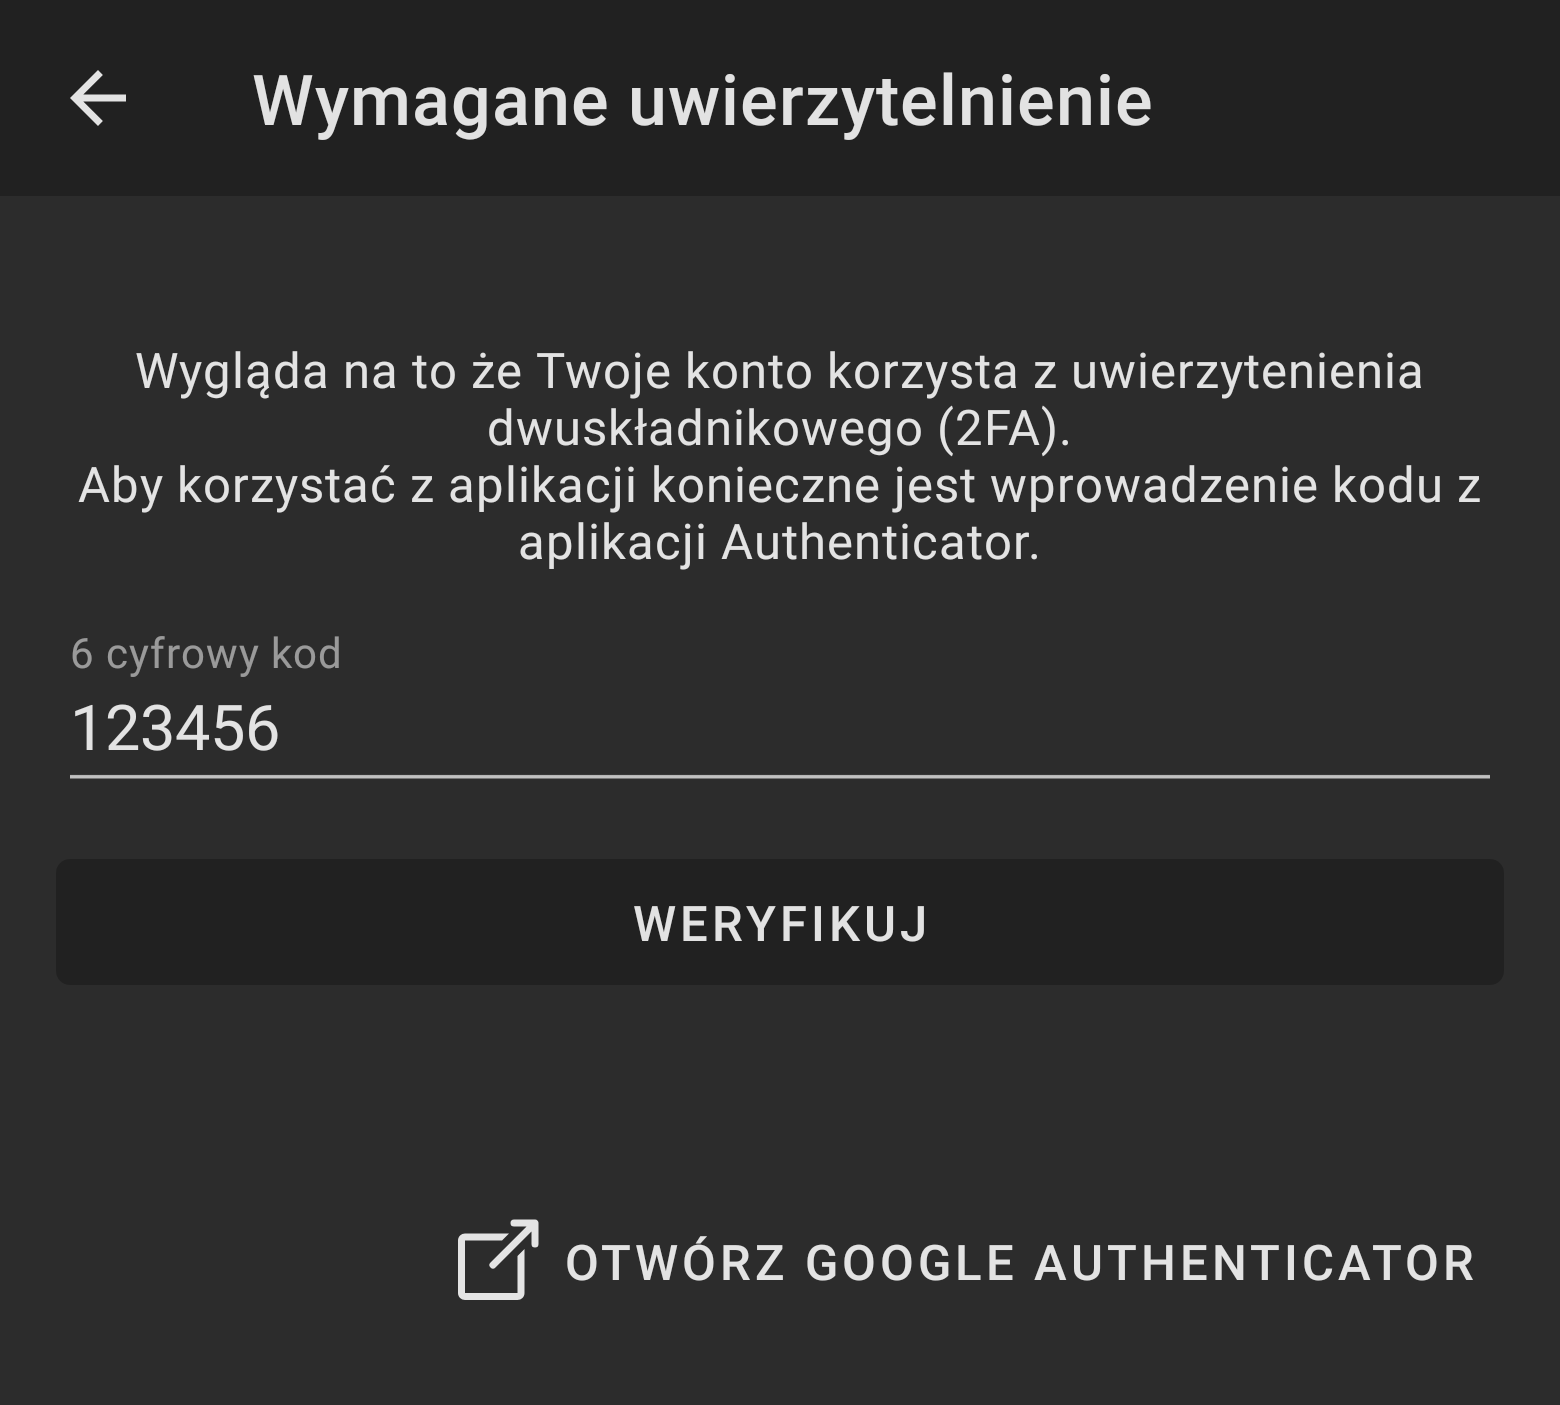
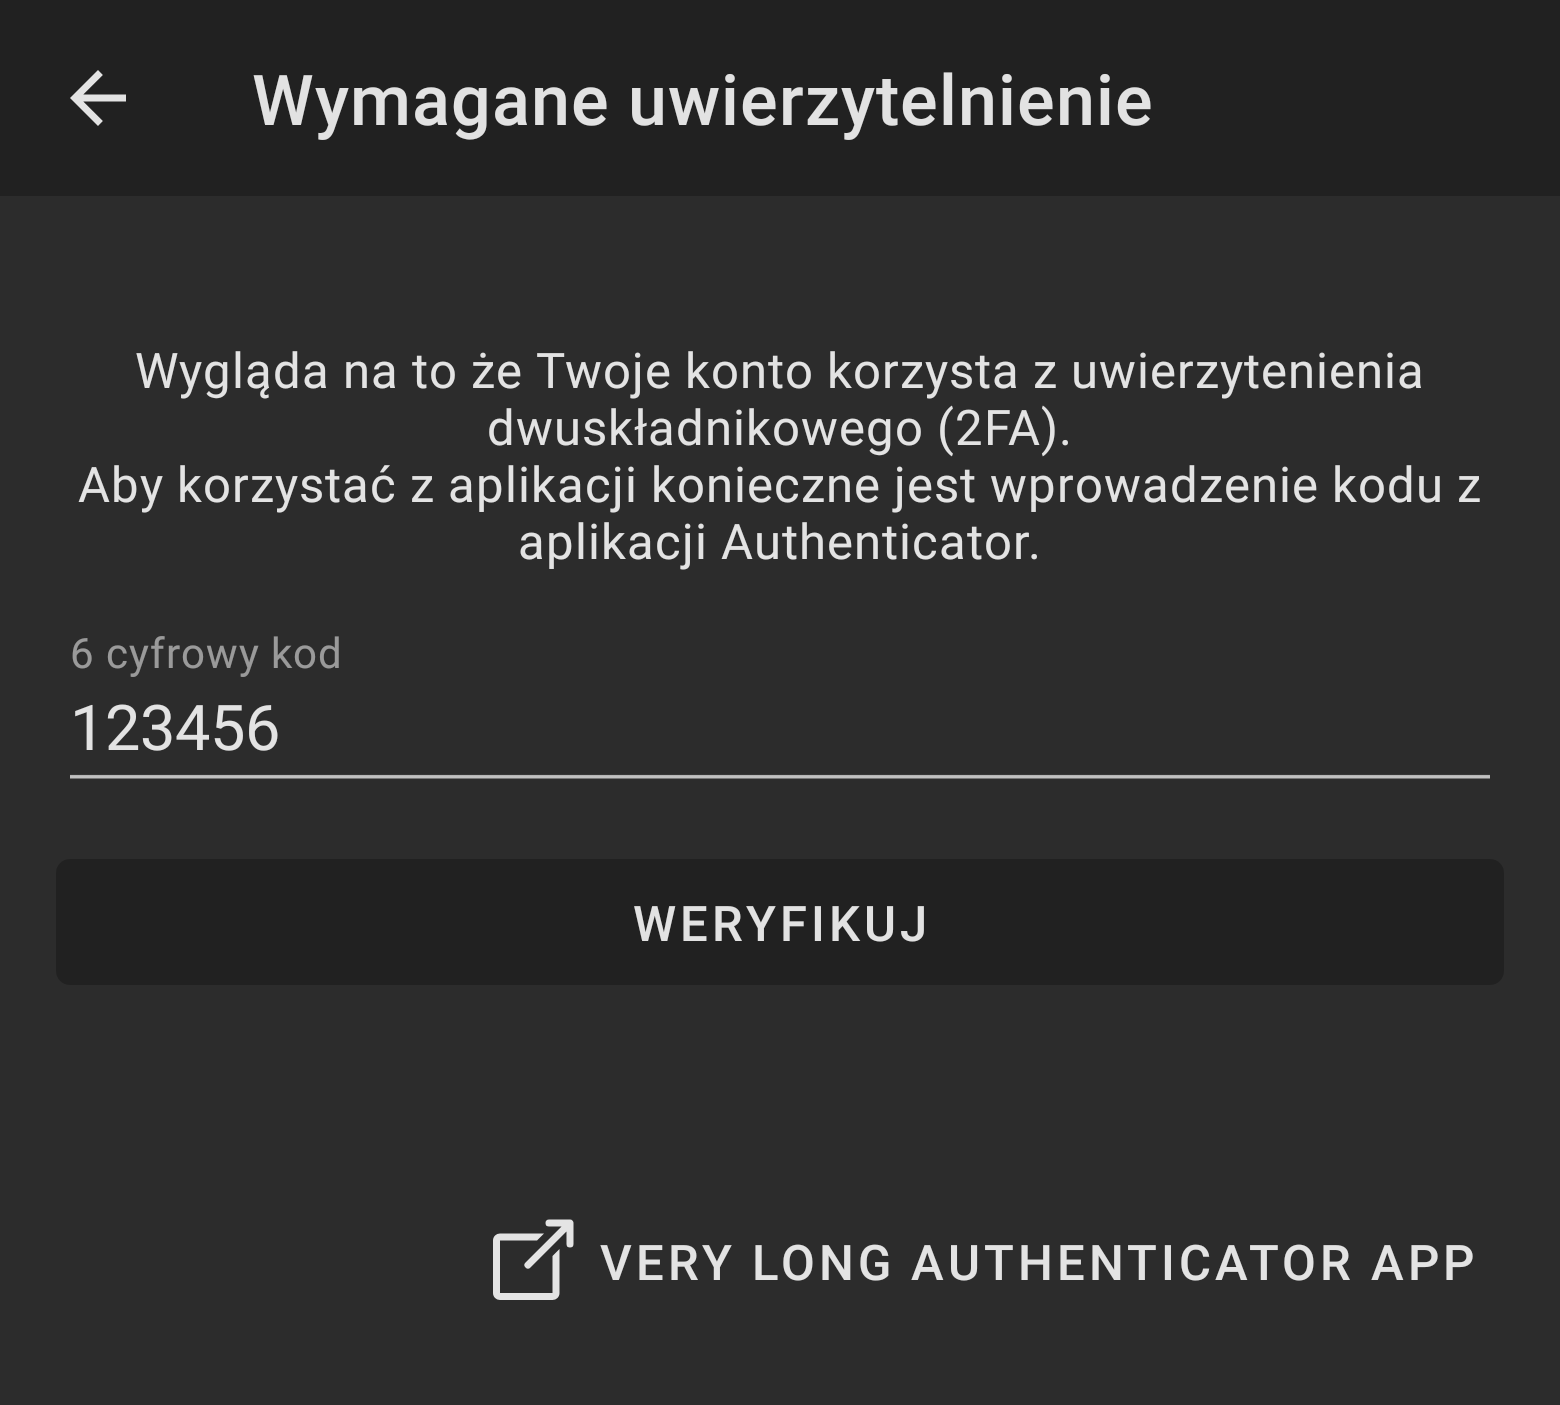
More authenticator apps

Changed region(s): [[0.2769, 0.8569, 0.9231, 0.9488]]

diff --git a/domain/src/main/kotlin/io/github/wykopmobilny/domain/strings/Strings.kt b/domain/src/main/kotlin/io/github/wykopmobilny/domain/strings/Strings.kt
@@ -68,10 +68,14 @@ object Strings {
 
         fun openAuthenticator(externalApp: AuthenticatorApp) =
             when (externalApp) {
-                AuthenticatorApp.Google -> "Otwórz Authenticator"
-                AuthenticatorApp.Microsoft -> "Otwórz Authenticator"
-                AuthenticatorApp.Authy -> "Otwórz Authy"
-                AuthenticatorApp.AuthenticatorPro -> "Otwórz Authenticator Pro"
+                AuthenticatorApp.Google -> "Google Authenticator"
+                AuthenticatorApp.Microsoft -> "Microsoft Authenticator"
+                AuthenticatorApp.Authy -> "Authy"
+                AuthenticatorApp.AuthenticatorPro -> "Authenticator Pro"
+                AuthenticatorApp.Bitwarden -> "Bitwarden"
+                AuthenticatorApp.Pixplicity -> "Pixplicity Authenticator"
+                AuthenticatorApp.Salesforce -> "Salesforce Authenticator"
+                AuthenticatorApp.Lastpass -> "Lastpass Authenticator"
             }
     }
 }

diff --git a/ui/two-factor/android/src/androidTest/kotlin/io/github/wykopmobilny/ui/settings/android/TwoFactorFragmentTest.kt b/ui/two-factor/android/src/androidTest/kotlin/io/github/wykopmobilny/ui/settings/android/TwoFactorFragmentTest.kt
@@ -26,7 +26,7 @@ internal class TwoFactorFragmentTest : BaseScreenshotTest() {
                         onClicked = {},
                     ),
                     authenticatorButton = ProgressButtonUi.Default(
-                        label = "Otwórz Google Authenticator",
+                        label = "Very long Authenticator app",
                         onClicked = {},
                     ),
                     errorDialog = null,
@@ -47,7 +47,7 @@ internal class TwoFactorFragmentTest : BaseScreenshotTest() {
                     ),
                     verifyButton = ProgressButtonUi.Loading,
                     authenticatorButton = ProgressButtonUi.Default(
-                        label = "Otwórz Microsoft Authenticator",
+                        label = "Short",
                         onClicked = {},
                     ),
                     errorDialog = null,

diff --git a/data/framework/android/src/main/kotlin/io/github/wykopmobilny/domain/navigation/android/AndroidAppGateway.kt b/data/framework/android/src/main/kotlin/io/github/wykopmobilny/domain/navigation/android/AndroidAppGateway.kt
@@ -82,6 +82,10 @@ private fun knownAppId(app: ExternalApp) =
         AuthenticatorApp.Microsoft -> "com.azure.authenticator"
         AuthenticatorApp.Authy -> "com.authy.authy"
         AuthenticatorApp.AuthenticatorPro -> "me.jmh.authenticatorpro"
+        AuthenticatorApp.Bitwarden -> "com.x8bit.bitwarden"
+        AuthenticatorApp.Pixplicity -> "com.pixplicity.auth"
+        AuthenticatorApp.Salesforce -> "com.salesforce.authenticator"
+        AuthenticatorApp.Lastpass -> "com.lastpass.authenticator"
     }
 
 private fun Context.isPackageInstalled(packageName: String): Boolean {

diff --git a/data/framework/api/src/main/kotlin/io/github/wykopmobilny/domain/navigation/AppGateway.kt b/data/framework/api/src/main/kotlin/io/github/wykopmobilny/domain/navigation/AppGateway.kt
@@ -24,4 +24,8 @@ enum class AuthenticatorApp : ExternalApp {
     Microsoft,
     Authy,
     AuthenticatorPro,
+    Bitwarden,
+    Pixplicity,
+    Salesforce,
+    Lastpass,
 }
